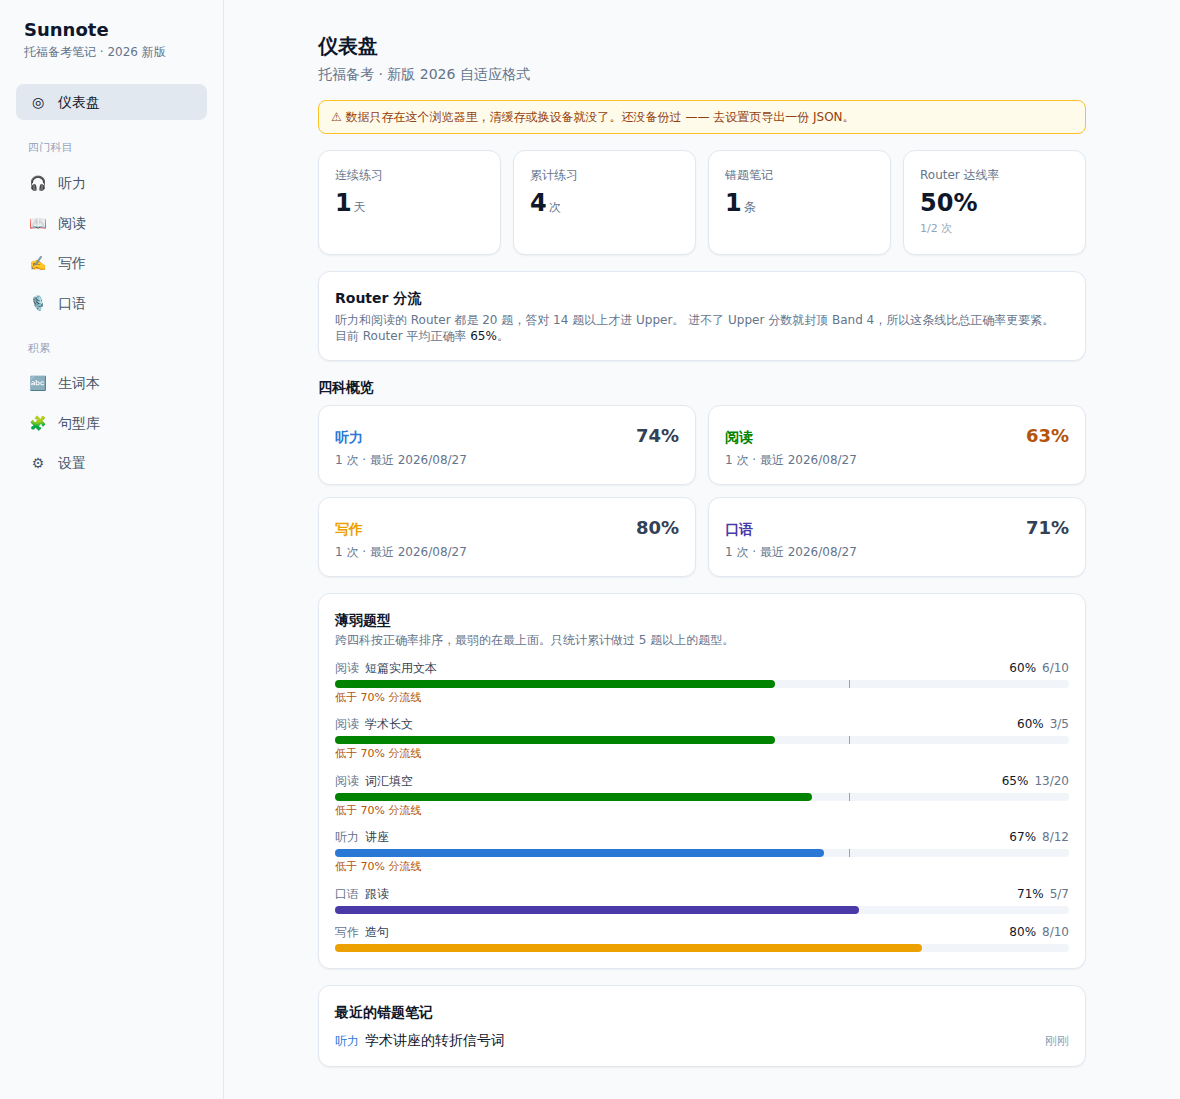
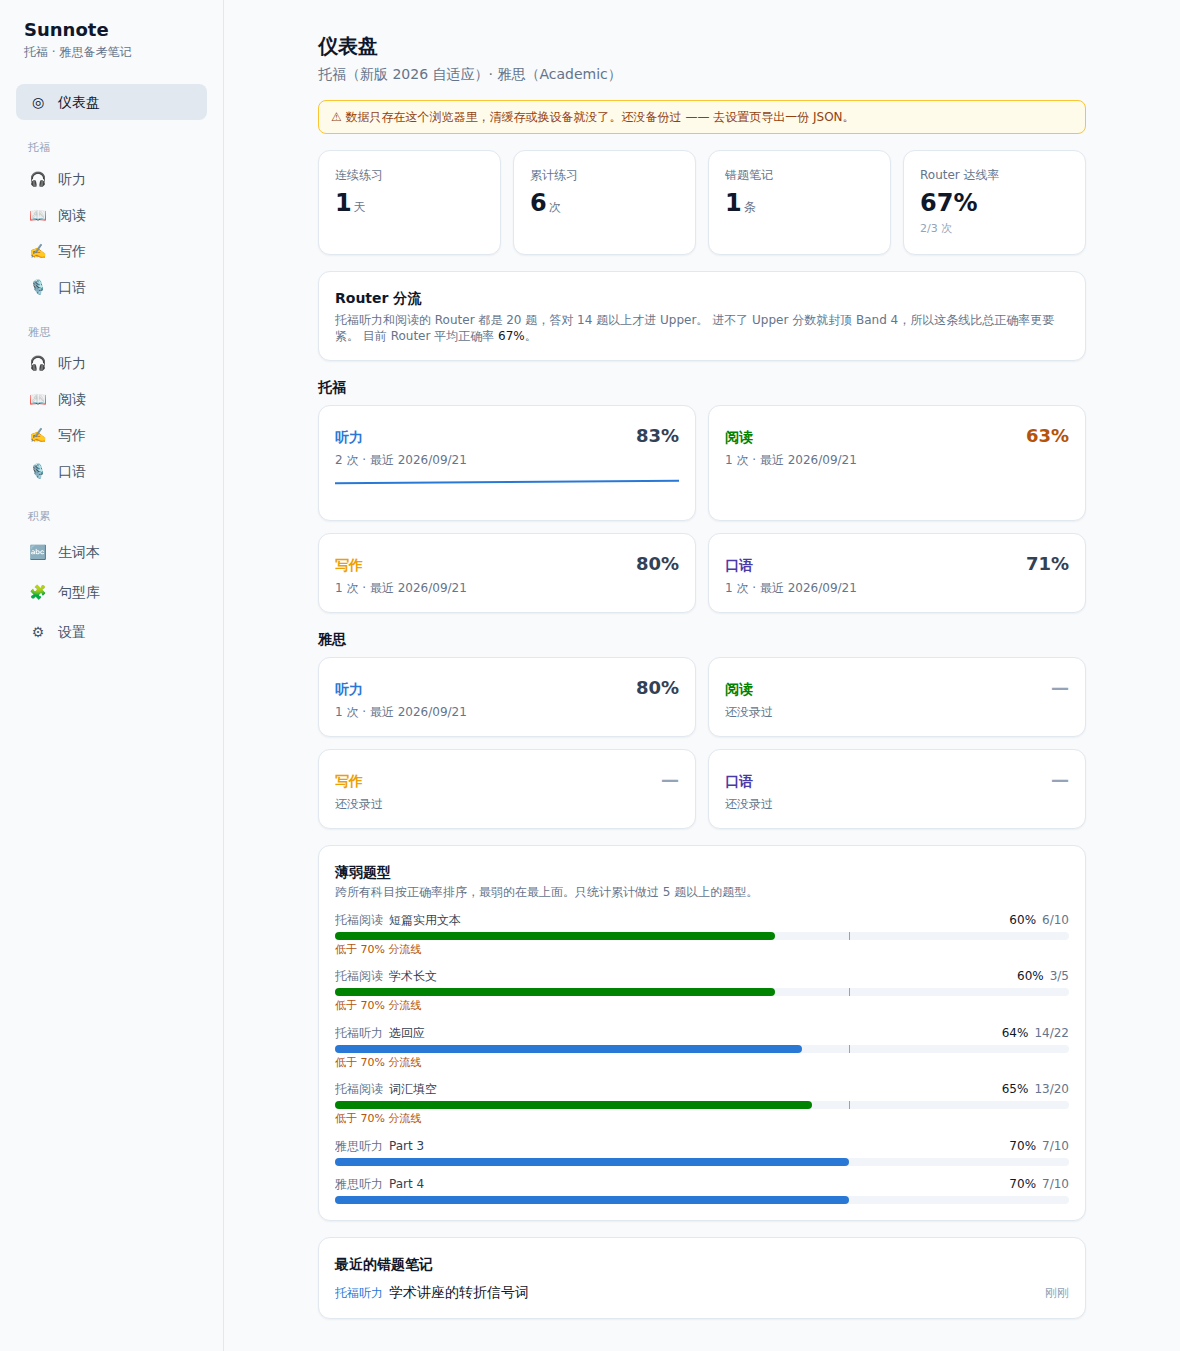
docs: README 和应用元信息都改成托福 + 雅思
- README 加上雅思那一节：4 个 Part / 3 篇的录入形态、为什么按 Part 记
  而不是按题型记（雅思题型分布每套浮动，按题型攒不出趋势）、
  Band 估算和它的免责说明
- 末尾那节改成「想加科目或改数字」，把两个估值（托福 70% 分流线、
  雅思换算表）并列说明，路径跟着 config 重组后的位置更新
- 句型库三条分类提示原本只讲托福，补上雅思对应的场景 —— 句型库是两个考试共用的
- PWA 名称、描述和标签页标题都不再只写托福
- 首页截图换成分组后的仪表盘

Claude-Session: https://claude.ai/code/session_01GLxaBArzitXCXpWHwBFkwV

diff --git a/src/pages/PhrasePage.tsx b/src/pages/PhrasePage.tsx
@@ -5,10 +5,10 @@ import { EmptyState } from '../components/EmptyState';
 import { cx } from '../utils/ui';
 
 const CATEGORIES: { key: PhraseCategory; label: string; hint: string }[] = [
-  { key: 'grammar', label: '语法点', hint: '对应写作的 Build a Sentence —— 那 10 道题考的就是语法结构。' },
+  { key: 'grammar', label: '语法点', hint: '托福写作的 Build a Sentence 直接考语法结构，雅思写作的 Grammatical Range 也看这个。' },
   { key: 'transition', label: '连接词', hint: '转折、递进、举例、总结，听力抓信号词也靠它。' },
-  { key: 'writing', label: '写作句型', hint: 'Email 的开头结尾、学术讨论里回应同学观点的说法。' },
-  { key: 'speaking', label: '口语句型', hint: 'Take an Interview 45 秒没准备时间，得有现成的起手句。' },
+  { key: 'writing', label: '写作句型', hint: '托福 Email 的开头结尾、学术讨论里回应同学观点；雅思 Task 1 描述趋势、Task 2 亮观点的说法。' },
+  { key: 'speaking', label: '口语句型', hint: '托福 Take an Interview 45 秒没准备时间，雅思 Part 2 只有 1 分钟 —— 都得有现成的起手句。' },
 ];
 
 export function PhrasePage() {

diff --git a/vite.config.ts b/vite.config.ts
@@ -12,9 +12,9 @@ export default defineConfig({
     VitePWA({
       registerType: 'autoUpdate',
       manifest: {
-        name: 'Sunnote 托福备考笔记',
+        name: 'Sunnote 托福雅思备考笔记',
         short_name: 'Sunnote',
-        description: '托福四科错题记录与知识积累（新版 2026 格式）',
+        description: '托福（新版 2026 自适应）和雅思（Academic）的错题记录与知识积累',
         theme_color: '#0f172a',
         background_color: '#0f172a',
         display: 'standalone',

diff --git a/index.html b/index.html
@@ -6,7 +6,7 @@
     <meta name="theme-color" content="#0f172a" />
     <link rel="icon" type="image/svg+xml" href="./favicon.svg" />
     <link rel="apple-touch-icon" href="./icon-192.png" />
-    <title>Sunnote 托福备考笔记</title>
+    <title>Sunnote 托福雅思备考笔记</title>
   </head>
   <body>
     <div id="root"></div>

diff --git a/README.md b/README.md
@@ -1,6 +1,6 @@
 # Sunnote
 
-托福备考笔记。按**新版 2026 自适应格式**建模——录完一套题只填「错了几个」，正确率、薄弱题型、分流达线率自动算出来。
+托福 + 雅思备考笔记。按真实考试结构建模——录完一套题只填「错了几个」，正确率、薄弱题型、分流达线率（托福）和估算 Band（雅思）自动算出来。
 
 **👉 [打开使用](https://leonsun1214.github.io/Sunnote/)** · 免费 · 无需注册 · 数据只存在你自己的浏览器里
 
@@ -13,10 +13,13 @@
 Sunnote 让你花一分钟录完一套题，然后：
 
 - 每个题型的正确率横着排开，**最弱的排最上面**
-- 盯住 **Router 达线率**——新版考试里 Router 答对不到 14/20 就进不了 Upper，分数直接封顶 Band 4。这条线比总正确率更要紧
+- 盯住托福的 **Router 达线率**——新版考试里 Router 答对不到 14/20 就进不了 Upper，分数直接封顶 Band 4。这条线比总正确率更要紧
+- 雅思对了几题**当场换算成 Band**，不用去翻换算表
 - 错题笔记按科目归档，做题时随手记，复习时搜得到
 
-## 四科都按真实考试结构录入
+两个考试各自独立记录、独立统计，生词本和句型库共用。
+
+## 托福：按新版 2026 自适应格式录入
 
 **听力 / 阅读**：Router 20 题定分流 → 进 Upper 或 Lower 各 15 题。选好走向后，那个模块没有的题型会自动隐藏。
 
@@ -35,14 +38,30 @@ Sunnote 让你花一分钟录完一套题，然后：
 
 题数是固定的，所以**只填错了几个**。没填的按全错算——这样漏填哪一块会立刻变成刺眼的低分，而不是悄悄算成满分。
 
-**写作**：Build a Sentence 数对错；Email 和学术讨论按自评分记录，答案框实时数词并对照目标区间（130–140 / 100–130 词）。
+**写作**：Build a Sentence 数对错；Email 和学术讨论按自评分（0–5）记录，答案框实时数词并对照目标区间（130–140 / 100–130 词）。
 
 **口语**：Listen and Repeat 七句逐句点；Take an Interview 四题各带 45 秒倒计时和转写框。
+
+## 雅思：Academic，按 Part / 篇目录入
+
+**听力**：4 个 Part 各 10 题，共 40 题。Part 1 日常对话 / Part 2 日常独白 / Part 3 学术讨论 / Part 4 学术讲座。
+
+**阅读**：3 篇学术长文共 40 题。预填 13 / 13 / 14，但**每篇题数可以改**——真题里的分配每套都不一样。
+
+按 Part / 篇目记而不是按题型记，是因为雅思的题型分布每套浮动，配对题这套 6 道下套 3 道，按题型统计攒不出趋势。
+
+填完错题数，旁边会显示 `对 32/40 ≈ Band 7.5（估算）`，**点一下才填进 Band 选择器**，不会悄悄覆盖你手填的真实成绩。
+
+> ⚠ 雅思官方从不公布原始分换算表，且明确说过分数线随每套题难度浮动。应用里用的是网上多个来源一致的通行版本，**只能当估算**。表在 `src/config/exams/ielts/bands.ts`，想按自己的数据调就改那里。
+
+**写作**：Task 1 图表报告（≥150 词）+ Task 2 议论文（≥250 词），按官方四项评分标准（Task Achievement / Coherence and Cohesion / Lexical Resource / Grammatical Range and Accuracy）打 0–9 半档。
+
+**口语**：Part 1 日常问答 / Part 2 个人陈述（1 分钟准备 + 1–2 分钟说，带倒计时）/ Part 3 深入讨论，按四项标准（Fluency and Coherence / Lexical Resource / Grammatical Range and Accuracy / Pronunciation）自评。
 
 ## 还有
 
 - **生词本**——熟练度四档、随机抽查（遮住释义自己先想）
-- **句型库**——语法点 / 连接词 / 写作句型 / 口语句型
+- **句型库**——语法点 / 连接词 / 写作句型 / 口语句型，两个考试共用
 - **备份**——一键导出 JSON，也能导出 Markdown 复习本拿去打印
 - 深浅色主题，手机能用，装成 App 后离线也能打开
 
@@ -73,6 +92,11 @@ npm run e2e        # 端到端测试（需先起 dev server 和 npx playwright i
 
 推到 `main` 会自动构建并发布到 GitHub Pages。
 
-## 关于 70% 这条线
+## 想加科目或改数字
 
-Router 进 Upper 的门槛 ETS 没有公开，70% 是根据实例观察的估值。想按自己的数据调整，改 `src/config/subjects/listening.ts` 和 `reading.ts` 里的 `routingThreshold`，一行的事。
+每个科目的题型、题数、评分标准都写在 `src/config/exams/<考试>/<科目>.ts` 里，页面只是照着配置渲染。改数字不用碰界面代码。
+
+两个已知的估值，都在 config 里明确标着：
+
+- **托福 Router 进 Upper 的 70% 门槛**——ETS 没公开，这是根据实例观察的估值。改 `src/config/exams/toefl/listening.ts` 和 `reading.ts` 里的 `routingThreshold`
+- **雅思原始分换算 Band 的表**——见上面那条警告，改 `src/config/exams/ielts/bands.ts`
